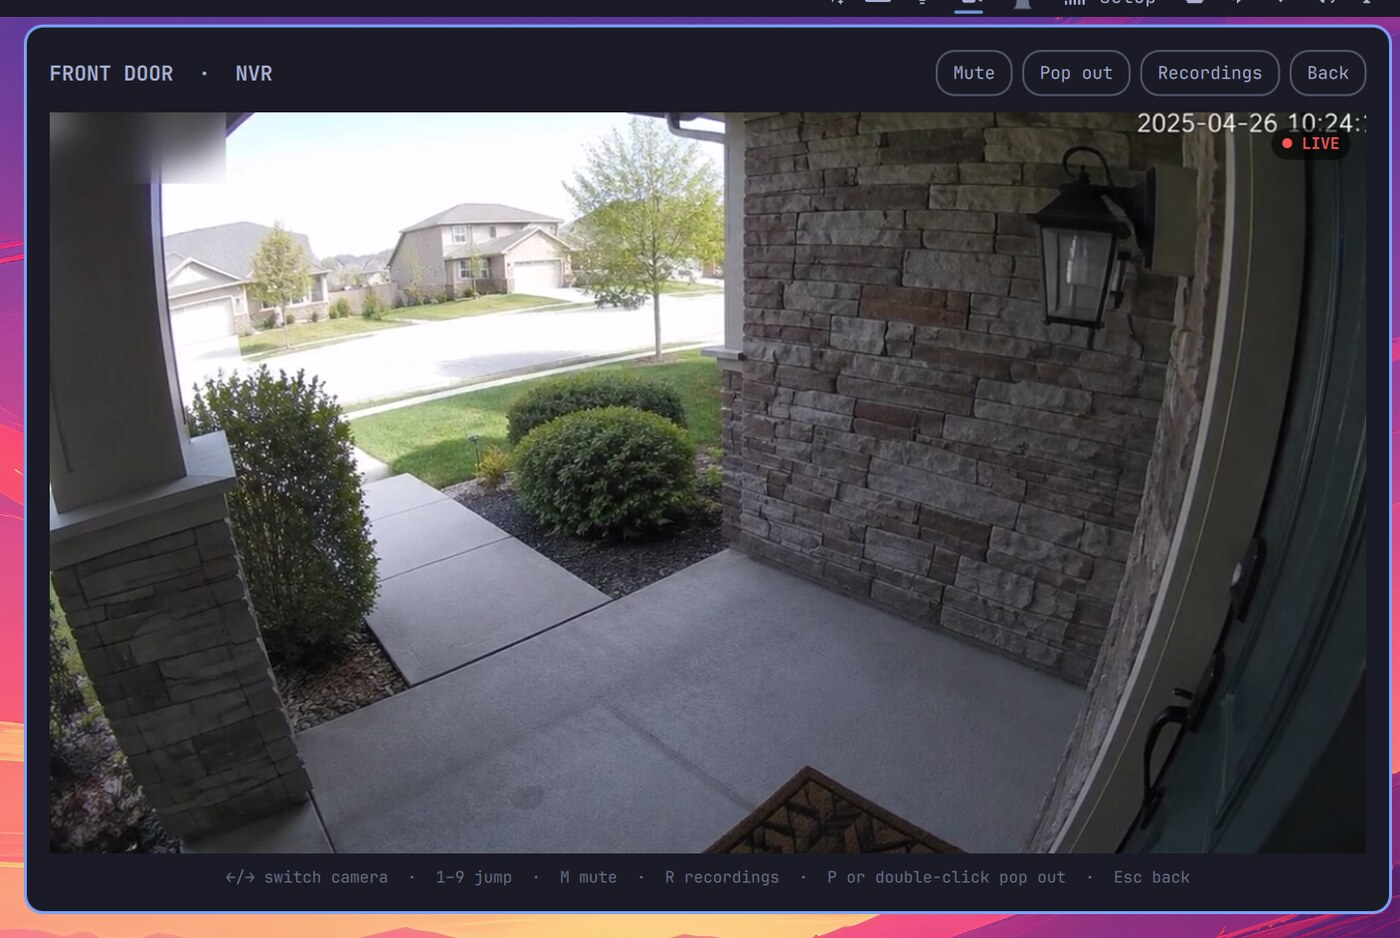
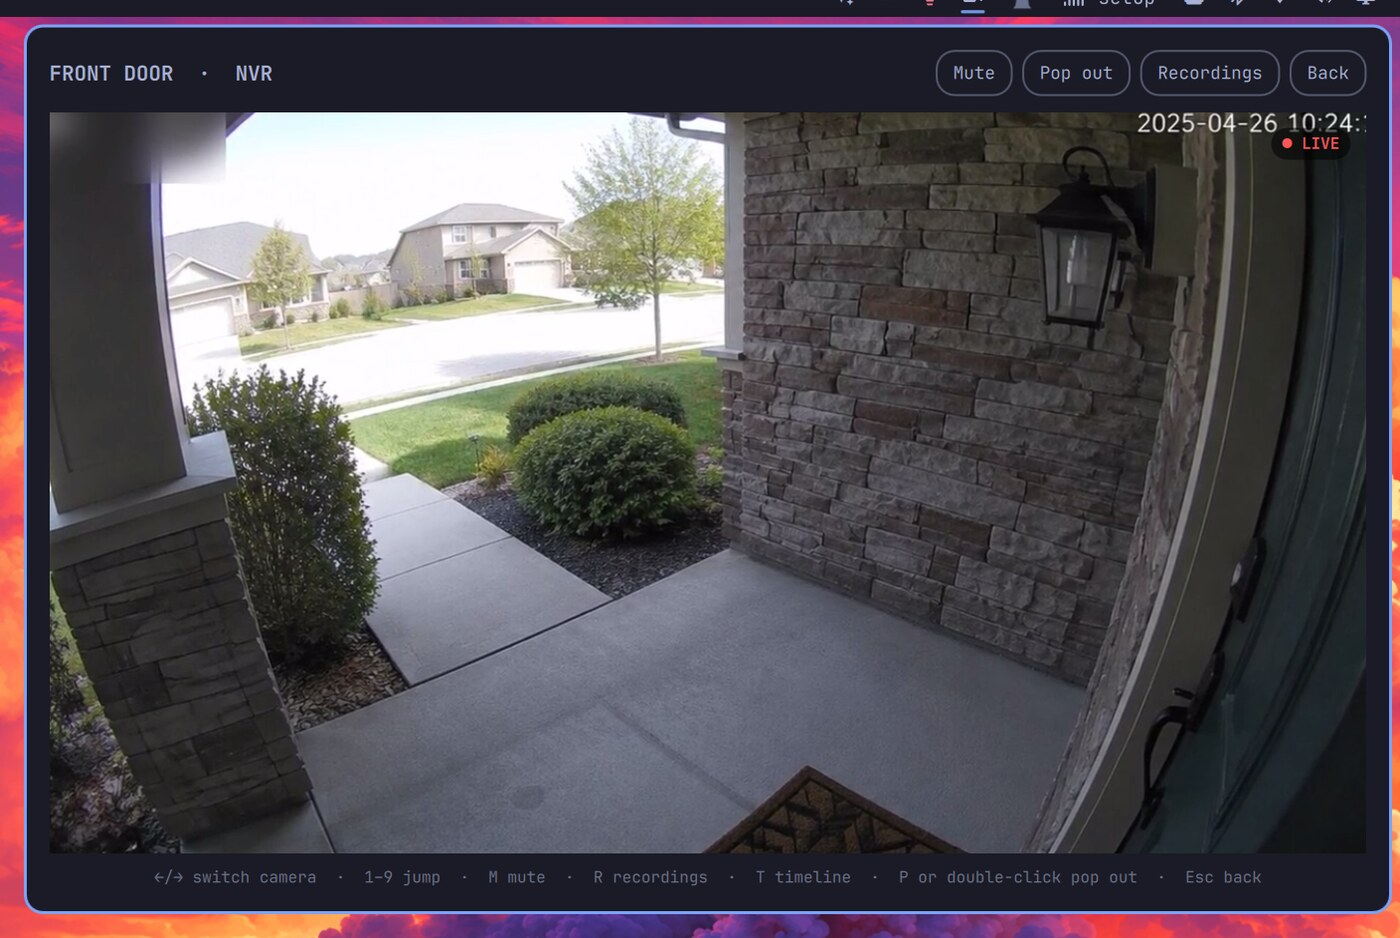
Release 0.6.0
Version 0.6.0 in the manifest and README, and the changelog dated.
Setting labels and the description mention the timeline, which follows
the same wall settings. Screenshots retaken in demo mode with the new
panel header, plus one of the timeline; the screenshot script captures
it.

Changed region(s): [[0.0, 0.0, 1.0, 1.0]]

diff --git a/README.md b/README.md
@@ -15,7 +15,7 @@ colour when an armed camera has seen something, turns that colour when a
 camera is offline, and gets a small dot when a console could not be reached
 on the last poll.
 
-Version 0.5.0 · [Changelog](CHANGELOG.md) · MIT licensed · by ELD Technologies
+Version 0.6.0 · [Changelog](CHANGELOG.md) · MIT licensed · by ELD Technologies
 
 ![The camera wall: six cameras live, maximized, with the Omarchy bar above](docs/screenshots/wall.jpg)
 
@@ -33,6 +33,10 @@ Version 0.5.0 · [Changelog](CHANGELOG.md) · MIT licensed · by ELD Technologie
 | Live view | Recordings |
 |---|---|
 | ![Live view of the Front Door camera in the panel](docs/screenshots/panel-live.jpg) | ![Recordings of the Front Door camera: a doorbell ring playing back with a REC badge and a seek bar, above a list of detections with thumbnails](docs/screenshots/panel-recordings.jpg) |
+
+| Timeline |
+|---|
+| ![The timeline: six cameras at a moment 40 minutes ago, two with no recording then, above a lane per camera showing footage, gaps and detections](docs/screenshots/timeline.jpg) |
 
 *The camera pictures in these screenshots are AI-generated for demo purposes; they show no real place or person. The screenshots themselves are of the real plugin, running in [demo mode](#developing).*
 
@@ -415,9 +419,9 @@ Widget settings live in `~/.config/omarchy/shell.json` and reload on save:
 | `columns` | `2` | Grid columns |
 | `liveQuality` | `medium` | Stream for the in-panel live view |
 | `popoutQuality` | `high` | Stream for the mpv window |
-| `sound` | `true` | Sound when one camera is shown (live view, enlarged wall camera, pop-out); `false` starts muted |
-| `wallMode` | `window` | Camera wall as a maximized `window` or a full-screen `overlay` |
-| `wallLayout` | `auto` | Camera wall layout: `auto`, `row`, `column`, a grid such as `3x3` or `2x4`, `1+5` or `1+7` |
+| `sound` | `true` | Sound when one camera is shown (live view, enlarged wall or timeline camera, pop-out); `false` starts muted |
+| `wallMode` | `window` | Camera wall and timeline as a maximized `window` or a full-screen `overlay` |
+| `wallLayout` | `auto` | Camera wall and timeline layout: `auto`, `row`, `column`, a grid such as `3x3` or `2x4`, `1+5` or `1+7` |
 
 ```json
 { "id": "com.eldtechnologies.unifi-protect", "columns": 3, "liveQuality": "high" }

diff --git a/CHANGELOG.md b/CHANGELOG.md
@@ -3,7 +3,7 @@
 All notable changes to this plugin. The version is set in `manifest.json`;
 `eld-unifi-protect --version` reads it from there.
 
-## Unreleased
+## 0.6.0 — 2026-11-18
 
 ### Added
 
